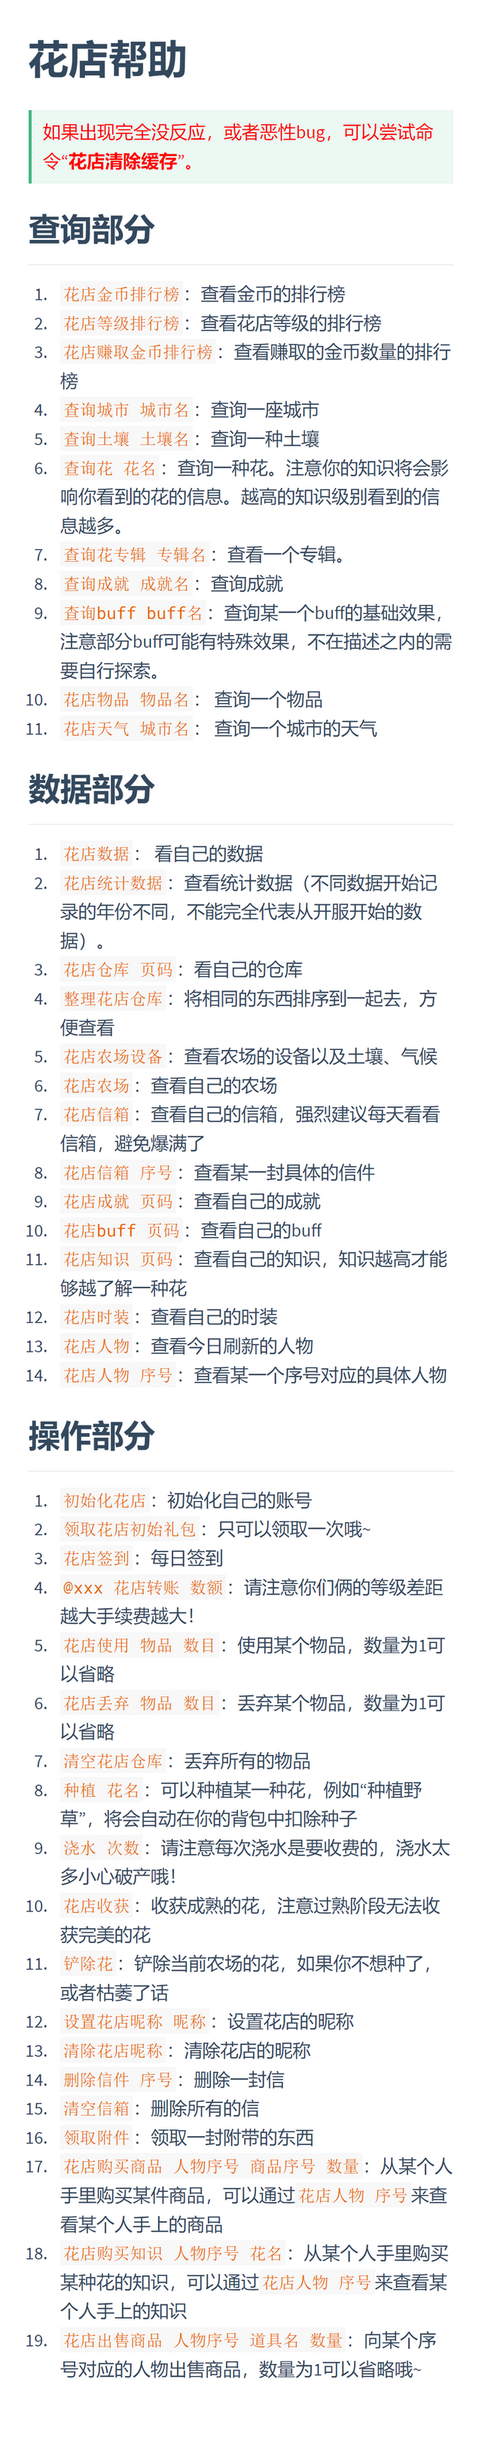
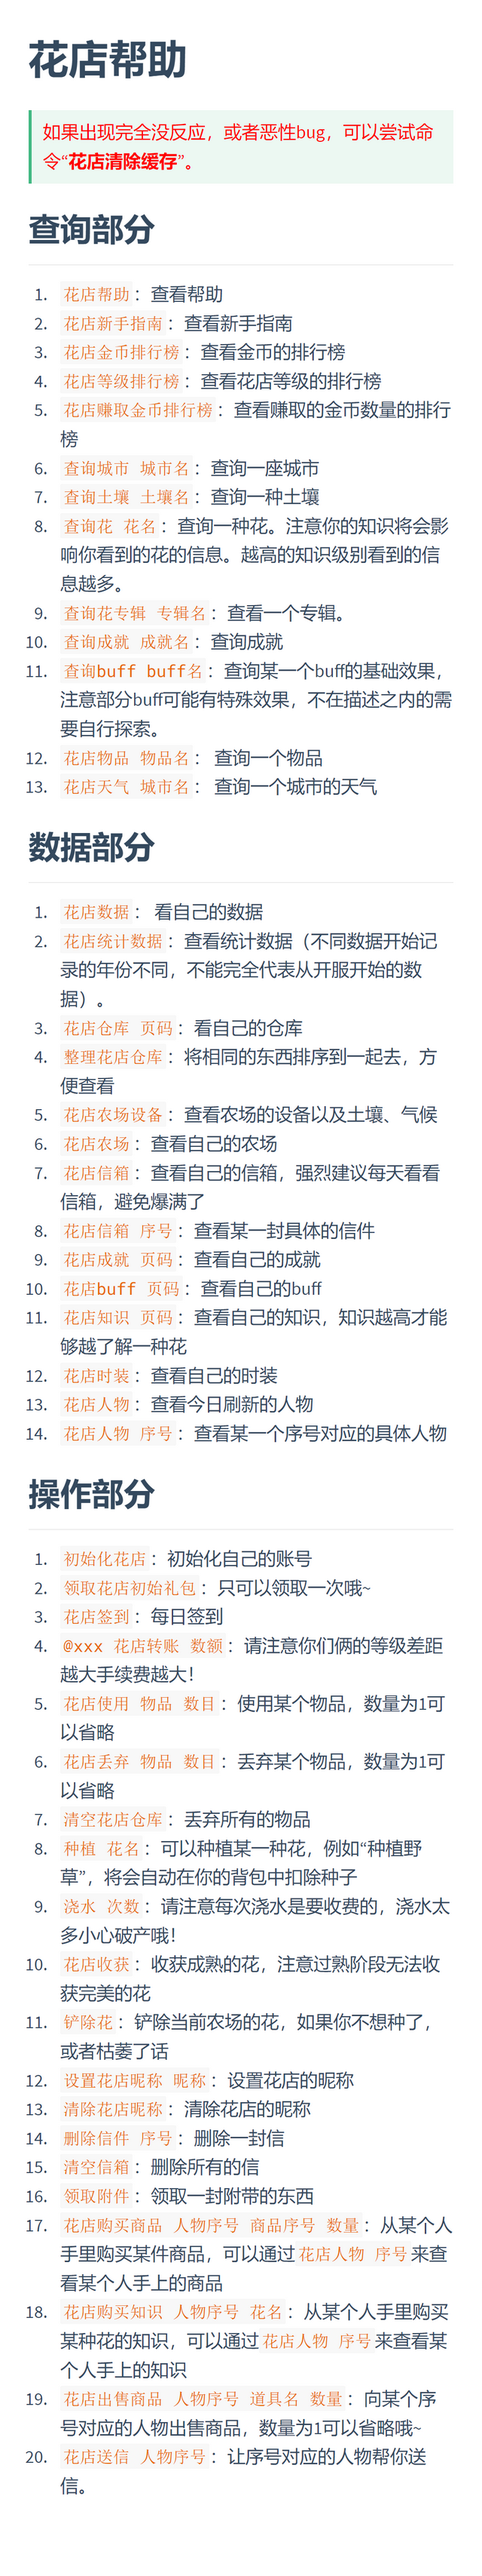
修改帮助文档

diff --git a/main.py b/main.py
@@ -100,6 +100,7 @@ async def download_help():
         )
 
 
+@app.get("/guide")
 async def download_guide():
     """
     指南下载

diff --git a/doc/帮助.md b/doc/帮助.md
@@ -4,17 +4,19 @@
 
 ## 查询部分
 
-1. `花店金币排行榜`：查看金币的排行榜
-2. `花店等级排行榜`：查看花店等级的排行榜
-3. `花店赚取金币排行榜`：查看赚取的金币数量的排行榜
-4. `查询城市 城市名`：查询一座城市
-5. `查询土壤 土壤名`：查询一种土壤
-6. `查询花 花名`：查询一种花。注意你的知识将会影响你看到的花的信息。越高的知识级别看到的信息越多。
-7. `查询花专辑 专辑名`：查看一个专辑。
-8. `查询成就 成就名`：查询成就
-9. `查询buff buff名`：查询某一个buff的基础效果，注意部分buff可能有特殊效果，不在描述之内的需要自行探索。
-10. `花店物品 物品名`： 查询一个物品
-11. `花店天气 城市名`： 查询一个城市的天气
+1. `花店帮助`：查看帮助
+2. `花店新手指南`：查看新手指南
+2. `花店金币排行榜`：查看金币的排行榜
+3. `花店等级排行榜`：查看花店等级的排行榜
+4. `花店赚取金币排行榜`：查看赚取的金币数量的排行榜
+5. `查询城市 城市名`：查询一座城市
+6. `查询土壤 土壤名`：查询一种土壤
+7. `查询花 花名`：查询一种花。注意你的知识将会影响你看到的花的信息。越高的知识级别看到的信息越多。
+8. `查询花专辑 专辑名`：查看一个专辑。
+9. `查询成就 成就名`：查询成就
+10. `查询buff buff名`：查询某一个buff的基础效果，注意部分buff可能有特殊效果，不在描述之内的需要自行探索。
+11. `花店物品 物品名`： 查询一个物品
+12. `花店天气 城市名`： 查询一个城市的天气
 
 ## 数据部分
 
@@ -54,3 +56,4 @@
 17. `花店购买商品 人物序号 商品序号 数量`：从某个人手里购买某件商品，可以通过`花店人物 序号`来查看某个人手上的商品
 18. `花店购买知识 人物序号 花名`：从某个人手里购买某种花的知识，可以通过`花店人物 序号`来查看某个人手上的知识
 19. `花店出售商品 人物序号 道具名 数量`：向某个序号对应的人物出售商品，数量为1可以省略哦~
+20. `花店送信 人物序号`：让序号对应的人物帮你送信。

diff --git a/doc/新手指南.md b/doc/新手指南.md
@@ -1,4 +1,4 @@
-# 花店指南
+# 花店新手指南
 
 ## 新手教程
 
